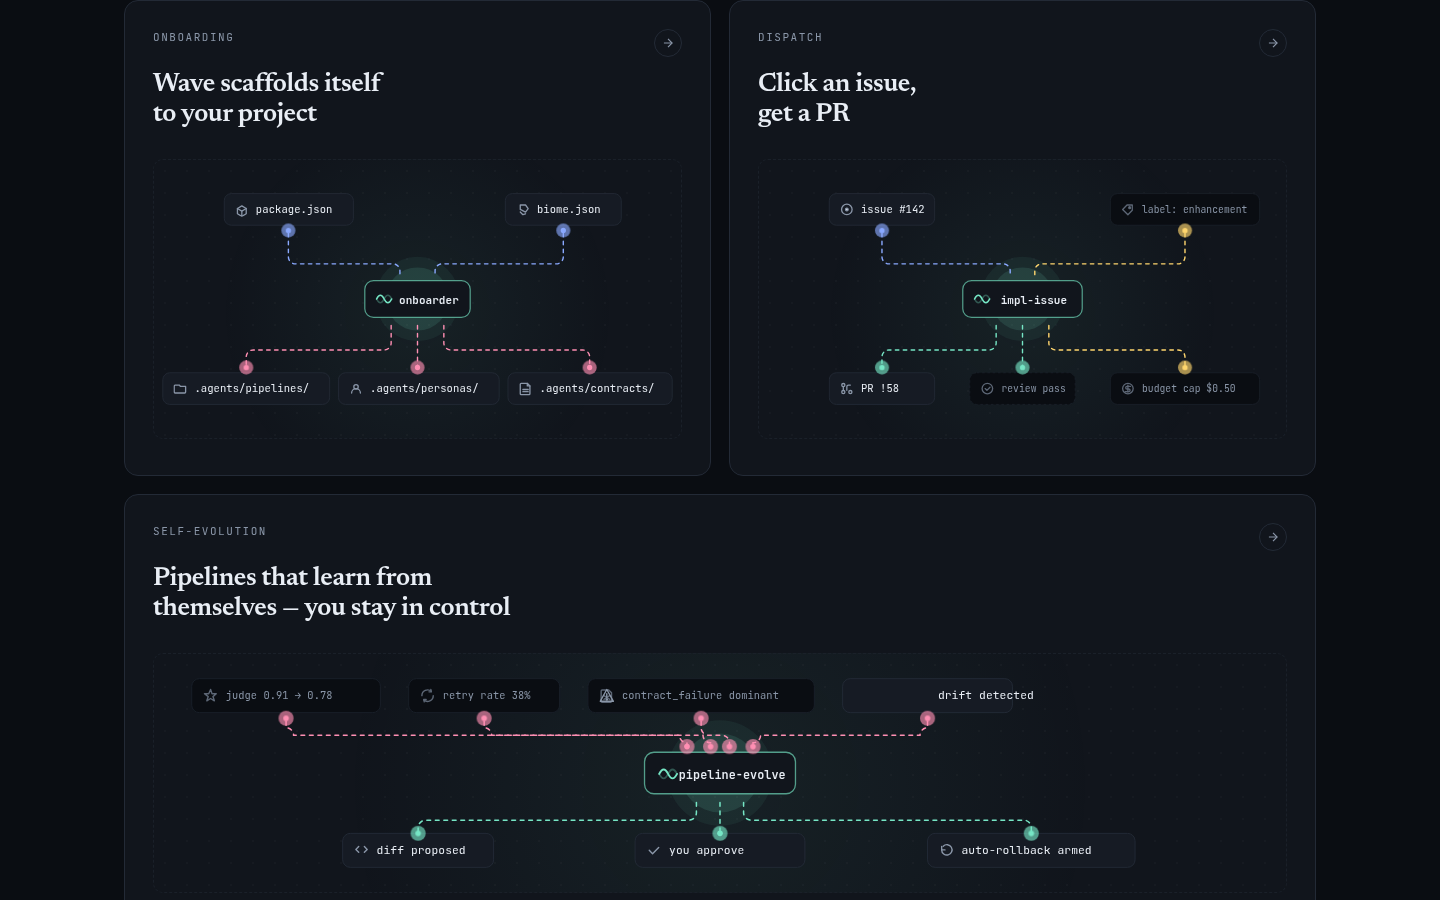
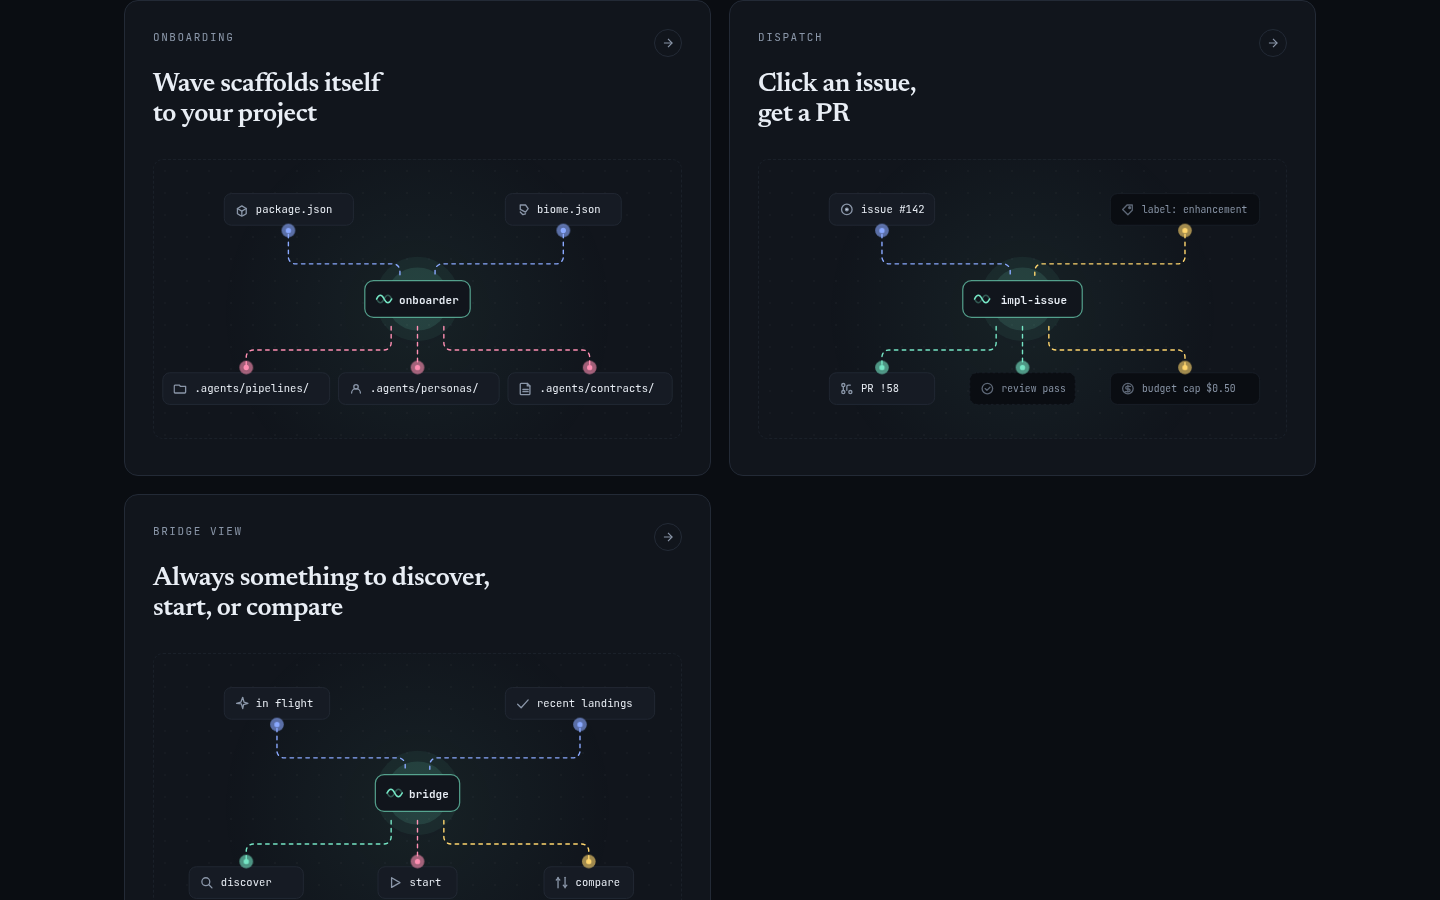
feat(mockups): remove self-evolution diagram card (unreadable)

diff --git a/docs/scope/mockups/public-landing.html b/docs/scope/mockups/public-landing.html
@@ -853,63 +853,6 @@
           </svg>
         </div>
       </a>
-
-      <a href="04-evolution-proposal.html" class="pcard pcard-wide">
-        <div class="pcard-head">
-          <span class="pcard-eyebrow">Self-evolution</span>
-          <span class="pcard-arrow"><svg viewBox="0 0 24 24" fill="none" stroke="currentColor" stroke-width="2"><line x1="5" y1="12" x2="19" y2="12" /><polyline points="12 5 19 12 12 19" /></svg></span>
-        </div>
-        <div class="pcard-title">Pipelines that learn from themselves &mdash; you stay in control</div>
-        <div class="diagram">
-          <svg class="dgm" width="100%" height="100%" viewBox="0 0 1200 240" preserveAspectRatio="xMidYMid meet">
-            <!-- input signals -->
-            <rect class="box-dim" x="40" y="20" width="200" height="36" rx="8"/><svg x="52" y="30" width="16" height="16" viewBox="0 0 16 16" fill="none" stroke="#5c6675" stroke-width="1.5" stroke-linecap="round" stroke-linejoin="round"><path d="M8 1.5l1.5 4.5h4.5L10.5 9l1.5 4.5L8 11l-4 2.5L5.5 9 1.5 6h4.5z"/></svg><text class="label-dim" text-anchor="start" x="76" y="42">judge 0.91 &rarr; 0.78</text>
-            <rect class="box-dim" x="270" y="20" width="160" height="36" rx="8"/><svg x="282" y="30" width="16" height="16" viewBox="0 0 16 16" fill="none" stroke="#5c6675" stroke-width="1.5" stroke-linecap="round" stroke-linejoin="round"><path d="M2 8a6 6 0 0 1 10-4.5"/><polyline points="11.5 1.5 12 4 9.5 4"/><path d="M14 8a6 6 0 0 1-10 4.5"/><polyline points="4.5 14.5 4 12 6.5 12"/></svg><text class="label-dim" text-anchor="start" x="306" y="42">retry rate 38%</text>
-            <rect class="box-dim" x="460" y="20" width="240" height="36" rx="8"/><svg x="472" y="30" width="16" height="16" viewBox="0 0 16 16" fill="none" stroke="#5c6675" stroke-width="1.5" stroke-linecap="round" stroke-linejoin="round"><path d="M3 2h7l3 3v9a1 1 0 0 1-1 1H3a1 1 0 0 1-1-1V3a1 1 0 0 1 1-1z"/><line x1="5" y1="8" x2="11" y2="12"/><line x1="11" y1="8" x2="5" y2="12"/></svg><text class="label-dim" text-anchor="start" x="496" y="42">contract_failure dominant</text>
-            <rect class="box"     x="730" y="20" width="180" height="36" rx="8"/>
-            <svg x="472" y="30" width="16" height="16" viewBox="0 0 16 16" fill="none" stroke="#8a96a8" stroke-width="1.5" stroke-linecap="round" stroke-linejoin="round"><path d="M8 1.5L15 14H1z"/><line x1="8" y1="6" x2="8" y2="10"/><circle cx="8" cy="12" r="0.6" fill="currentColor"/></svg><text class="label" x="831" y="42">drift detected</text>
-
-            <!-- hub -->
-            <circle class="hub-halo-out" cx="600" cy="120" r="56"/>
-            <circle class="hub-halo-mid" cx="600" cy="120" r="42"/>
-            <rect class="box-hub" x="520" y="98" width="160" height="44" rx="10"/>
-            <svg x="534" y="110" width="22" height="22" viewBox="0 0 28 28">
-              <path d="M2 14 C6 6, 10 6, 14 14 C18 22, 22 22, 26 14" fill="none" stroke="#76e6c5" stroke-width="2.6" stroke-linecap="round"/>
-              <path d="M2 14 C6 22, 10 22, 14 14 C18 6, 22 6, 26 14" fill="none" stroke="#76e6c5" stroke-width="2.6" stroke-linecap="round" opacity="0.32"/>
-            </svg>
-            <text class="label-hub" text-anchor="middle" x="613" y="126">pipeline-evolve</text>
-
-            <!-- outputs -->
-            <rect class="box" x="200" y="184" width="160" height="36" rx="8"/><svg x="212" y="194" width="16" height="16" viewBox="0 0 16 16" fill="none" stroke="#8a96a8" stroke-width="1.5" stroke-linecap="round" stroke-linejoin="round"><polyline points="11 4 14 7 11 10"/><polyline points="5 4 2 7 5 10"/></svg><text class="label" text-anchor="start" x="236" y="206">diff proposed</text>
-            <rect class="box" x="510" y="184" width="180" height="36" rx="8"/><svg x="522" y="194" width="16" height="16" viewBox="0 0 16 16" fill="none" stroke="#8a96a8" stroke-width="1.5" stroke-linecap="round" stroke-linejoin="round"><polyline points="3 8 6.5 11.5 13 5"/></svg><text class="label" text-anchor="start" x="546" y="206">you approve</text>
-            <rect class="box" x="820" y="184" width="220" height="36" rx="8"/><svg x="832" y="194" width="16" height="16" viewBox="0 0 16 16" fill="none" stroke="#8a96a8" stroke-width="1.5" stroke-linecap="round" stroke-linejoin="round"><path d="M3 4v3.5h3.5"/><path d="M3 7.5a5.5 5.5 0 1 0 1.6-3.9"/></svg><text class="label" text-anchor="start" x="856" y="206">auto-rollback armed</text>
-
-            <!-- connectors: 4 inputs -> distributed ports (565, 590, 610, 635), 3 hub.bottom -> outputs (575, 600, 625) -->
-            <path class="connector alt" d="M140 62 V72 A8 8 0 0 1 148 80 H557 A8 8 0 0 0 565 88 V92"/>
-            <path class="connector alt" d="M350 62 V72 A8 8 0 0 1 358 80 H582 A8 8 0 0 0 590 88 V92"/>
-            <path class="connector alt" d="M580 62 V72 A8 8 0 0 0 588 80 H602 A8 8 0 0 1 610 88 V92"/>
-            <path class="connector alt" d="M820 62 V72 A8 8 0 0 0 812 80 H643 A8 8 0 0 1 635 88 V92"/>
-
-            <path class="connector out" d="M575 148 V162 A8 8 0 0 1 567 170 H288 A8 8 0 0 0 280 178 V184"/>
-            <path class="connector out" d="M600 148 V184"/>
-            <path class="connector out" d="M625 148 V162 A8 8 0 0 0 633 170 H922 A8 8 0 0 1 930 178 V184"/>
-
-            <!-- endpoints -->
-            <circle class="endpoint-halo" cx="140" cy="62"  r="6" fill="#ff8fb3"/><circle cx="140" cy="62"  r="3" fill="#ff8fb3"/>
-            <circle class="endpoint-halo" cx="350" cy="62"  r="6" fill="#ff8fb3"/><circle cx="350" cy="62"  r="3" fill="#ff8fb3"/>
-            <circle class="endpoint-halo" cx="580" cy="62"  r="6" fill="#ff8fb3"/><circle cx="580" cy="62"  r="3" fill="#ff8fb3"/>
-            <circle class="endpoint-halo" cx="820" cy="62"  r="6" fill="#ff8fb3"/><circle cx="820" cy="62"  r="3" fill="#ff8fb3"/>
-            <circle class="endpoint-halo" cx="565" cy="92"  r="6" fill="#ff8fb3"/><circle cx="565" cy="92"  r="3" fill="#ff8fb3"/>
-            <circle class="endpoint-halo" cx="590" cy="92"  r="6" fill="#ff8fb3"/><circle cx="590" cy="92"  r="3" fill="#ff8fb3"/>
-            <circle class="endpoint-halo" cx="610" cy="92"  r="6" fill="#ff8fb3"/><circle cx="610" cy="92"  r="3" fill="#ff8fb3"/>
-            <circle class="endpoint-halo" cx="635" cy="92"  r="6" fill="#ff8fb3"/><circle cx="635" cy="92"  r="3" fill="#ff8fb3"/>
-            <circle class="endpoint-halo" cx="280" cy="184" r="6" fill="#76e6c5"/><circle cx="280" cy="184" r="3" fill="#76e6c5"/>
-            <circle class="endpoint-halo" cx="600" cy="184" r="6" fill="#76e6c5"/><circle cx="600" cy="184" r="3" fill="#76e6c5"/>
-            <circle class="endpoint-halo" cx="930" cy="184" r="6" fill="#76e6c5"/><circle cx="930" cy="184" r="3" fill="#76e6c5"/>
-          </svg>
-        </div>
-      </a>
-
       <a href="00-landing.html" class="pcard">
         <div class="pcard-head">
           <span class="pcard-eyebrow">Bridge view</span>
